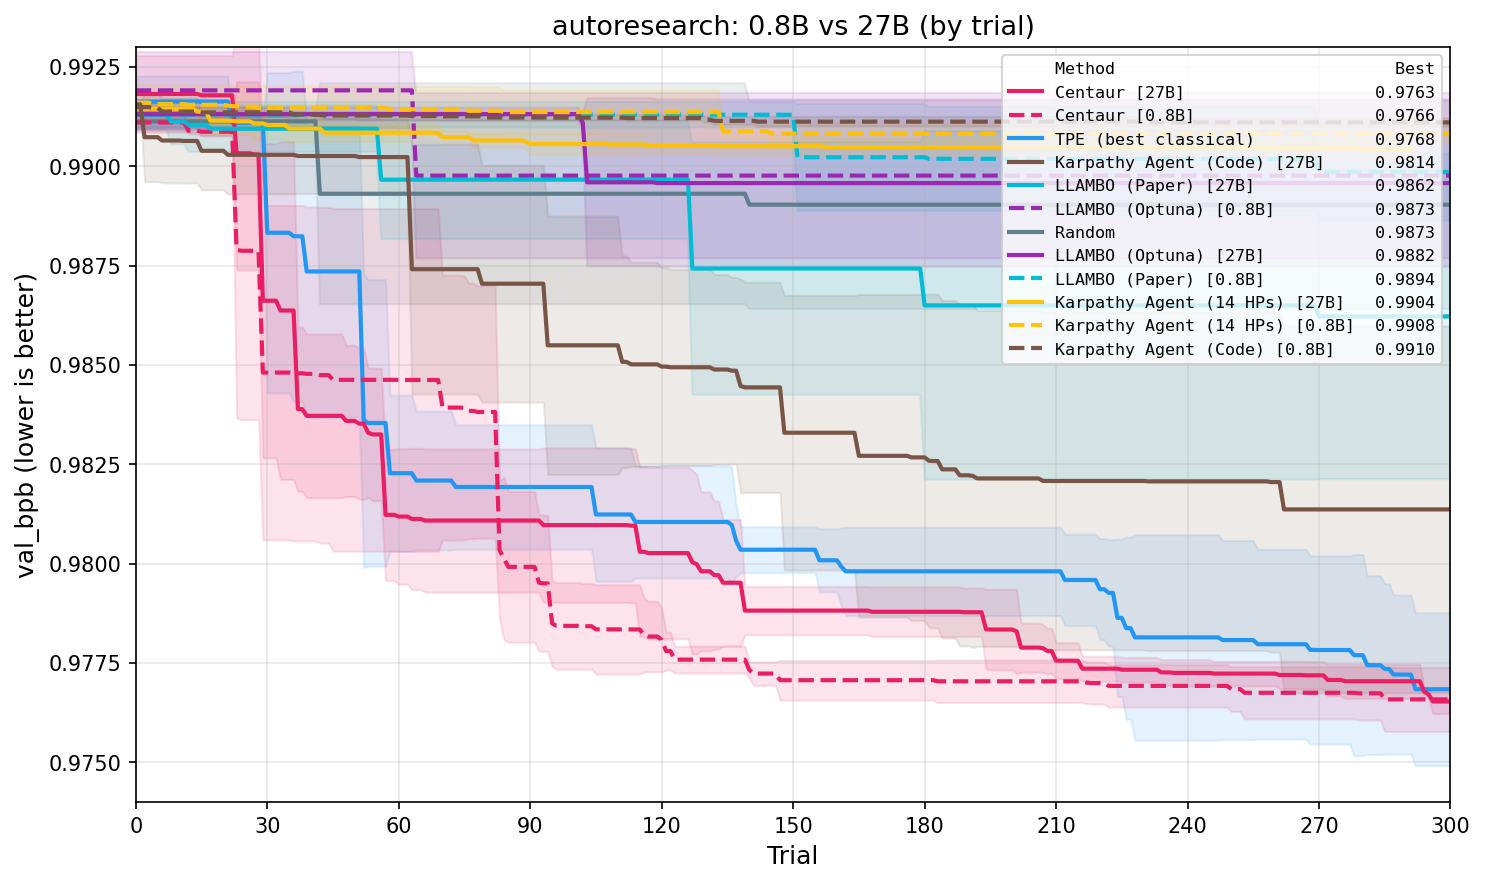
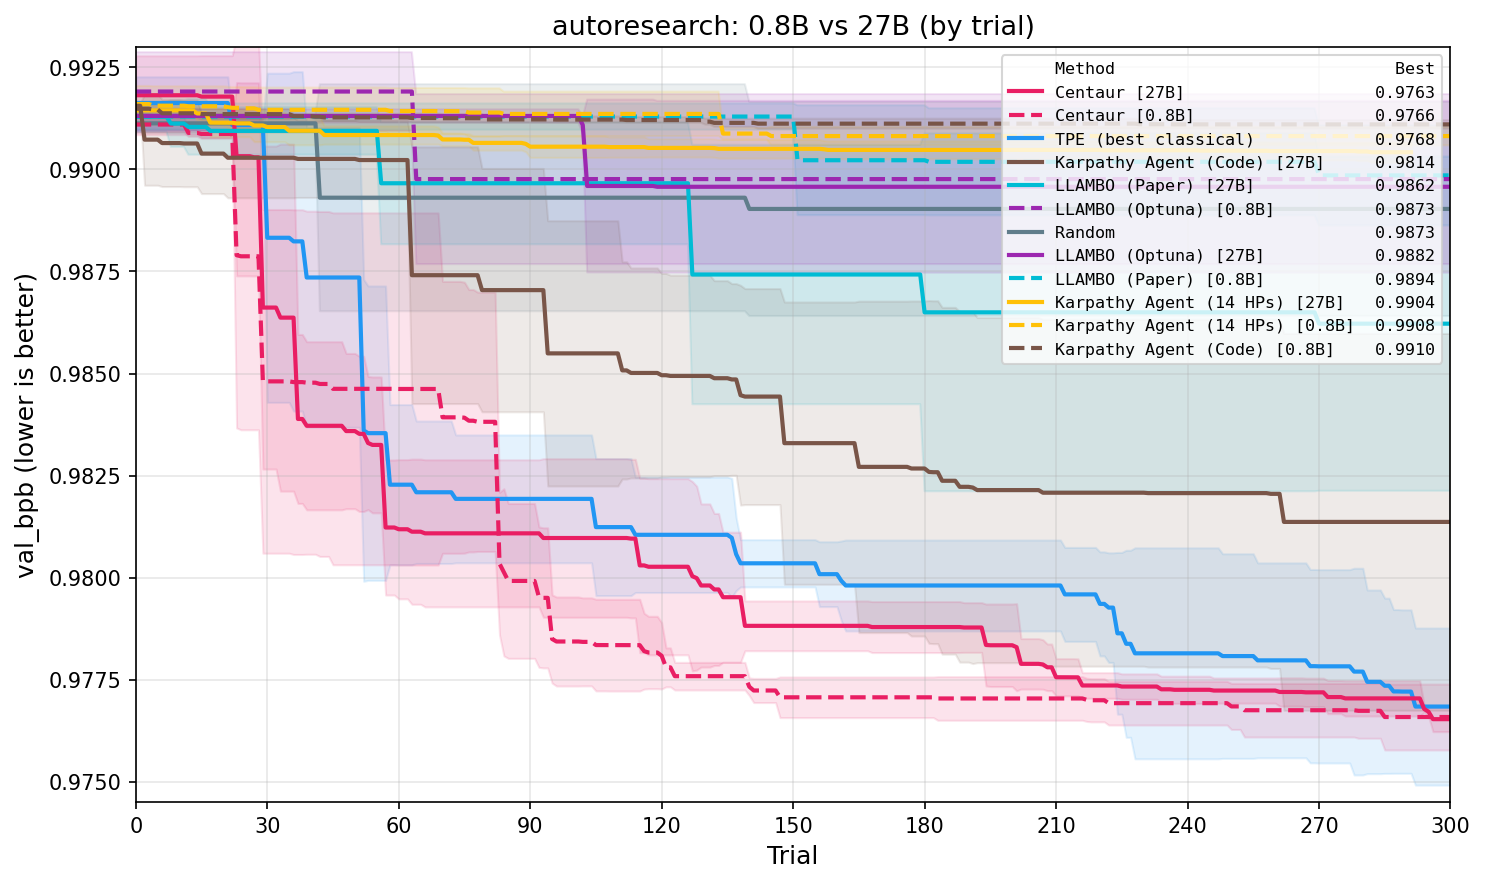
Tighten ylim on 0.8B vs 27B trial-number plot

diff --git a/scripts/plot_convergence.py b/scripts/plot_convergence.py
@@ -313,7 +313,7 @@ def plot_exp2_all(results_dir: Path, output_path: Path):
         output_path,
         title="autoresearch: 0.8B vs 27B (by trial)",
         xlim=(0, 300),
-        ylim=(0.974, 0.993),
+        ylim=(0.9745, 0.993),
     )
 
 
